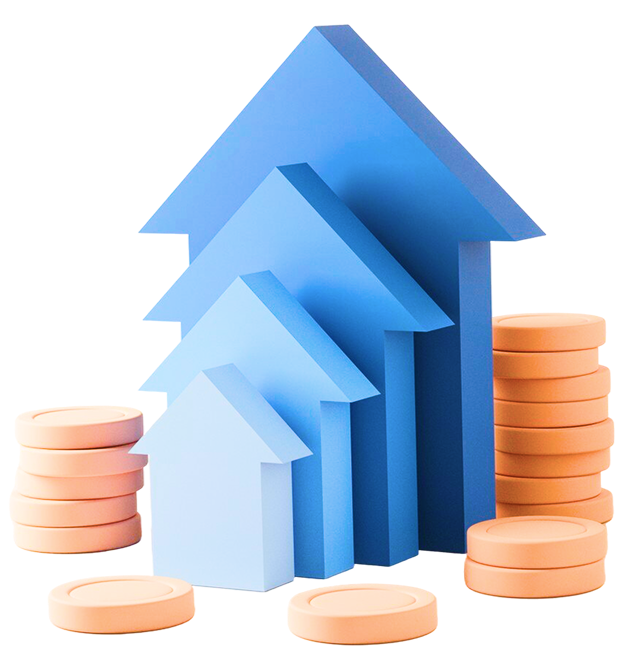
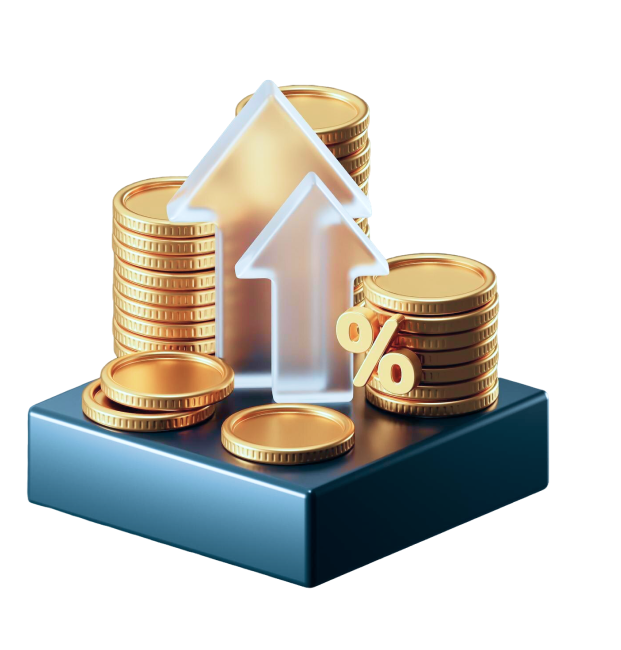
add project

diff --git a/index.html b/index.html
@@ -75,20 +75,20 @@
 
             <div class="hidden md:flex items-center justify-center w-full md:ml-40">
                 <nav class="flex items-center text-[0.875rem] gap-[1.0625rem]">
-                    <a href="#about-us" class="hover:opacity-80">О компании</a>
-                    <a href="#advantages" class="hover:opacity-80">Преимущества</a>
+                    <a href="#advantages" class="hover:opacity-80">Выгоды</a>
+                    <a href="#about-us" class="hover:opacity-80">О нас</a>
                     <a href="/" class="mx-[2.0625rem]">
                         <img src="/assets/images/logo.svg" alt="Финстар Капитал">
                     </a>
-                    <a href="#invests" class="hover:opacity-80">Инвестиции</a>
-                    <a href="#contacts" class="hover:opacity-80">Оставить заявку</a>
+                    <a href="#invests" class="hover:opacity-80">Фонды</a>
+                    <a href="#contacts" class="hover:opacity-80">Заявки</a>
                 </nav>
             </div>
 
             <a href="#invest"
-               class="hidden lg:block rounded-[0.5rem] bg-black text-white
+               class="hidden lg:block rounded-[0.5rem] bg-header-btn text-white
                     py-[0.5625rem] px-[1.1875rem] text-[1rem] font-medium">
-                Инвестировать
+                Скачать презентацию
             </a>
         </div>
     </div>
@@ -121,9 +121,9 @@
                  class="px-4 pb-[1.25rem] translate-y-4 opacity-0 transition-all duration-300 ease-out
                 motion-reduce:transition-none">
                 <a href="#invest"
-                   class="block w-full text-center rounded-[9999px] bg-black text-white
+                   class="block w-full text-center rounded-[9999px] bg-header-btn text-white
                 text-[1rem] py-[1.25rem] font-medium">
-                    Инвестировать
+                    Скачать презентацию
                 </a>
             </div>
         </div>
@@ -137,33 +137,33 @@
             <div class="md:grid md:grid-cols-2 md:gap-2 md:items-center">
                 <div class="text-center">
                     <h1 class="font-semibold leading-none text-[2.3125rem] md:text-[3.75rem]">
-                        Получайте от
+                        Создайте
                         <span class="font-semibold block text-[2.3125rem] md:text-[3.75rem] text-heading">
-                30% годовых
+                эффективный
               </span>
                     </h1>
 
                     <p class="mt-4 mb-4 md:mt-[0.6rem] md:mb-9 text-[1.125rem] md:text-[1.3125rem]">
-                        инвестируя в ЗПИФ <span class="block md:inline-block font-semibold">«Залоговые займы»</span>
+                        инвестиционный бюджет
                     </p>
 
-                    <p class="mb-6 md:mb-10 text-[0.8125rem] leading-5 md:text-[1rem] max-w-[30rem] mx-auto">
-                        Стабильный пассивный доход с ежемесячными выплатами по договору займа
+                    <p class="mb-6 md:mb-10 text-[0.8125rem] leading-5 md:text-[1rem] max-w-[24rem] mx-auto">
+                        минимизируя риски и гарантируя доходность от 25% годовых
                     </p>
 
                     <div class="md:hidden -ml-4 -mr-4">
-                        <img src="/assets/images/hero_mobile.png" alt="Монеты и рост графика"
+                        <img src="/assets/images/hero_bg.png" alt="Монеты и рост графика"
                              class="w-full h-auto select-none">
                     </div>
 
                     <a id="invest" href="#"
-                       class="mt-6 md:mt-0 inline-flex items-center justify-center rounded-[1.3rem] md:rounded-[1.9rem]
-                       bg-primary
+                       class="mt-6 md:mt-0 items-center justify-center rounded-[1.3rem] md:rounded-[1.9rem]
+                       bg-hero-btn
                        text-white
                       text-[1.3125rem] md:text-[1.38rem]
                       py-[1.25rem] px-[2.4375rem] md:py-[1.5rem] md:px-[1.875rem]
-                      hover:opacity-95 active:opacity-90 transition font-medium">
-                        Начать инвестировать
+                      hover:opacity-95 active:opacity-90 transition font-medium max-w-[20rem] mx-auto block">
+                        Узнать больше
                     </a>
 
                     <div class="mt-10 md:hidden rounded-[1.25rem] text-center bg-background-card px-4 py-5.5 flex flex-col justify-center items-center gap-3">
@@ -176,7 +176,7 @@
                 </div>
 
                 <div class="relative hidden md:block max-w-[87rem]">
-                    <img src="/assets/images/hero_bg.jpg" alt="Монеты и рост графика"
+                    <img src="/assets/images/hero_bg.png" alt="Монеты и рост графика"
                          class="max-w-full select-none">
 
                     <div class="flex items-start gap-2 rounded-[0.5rem] bg-white/95
@@ -193,65 +193,13 @@
         </div>
     </section>
 
-    <section id="advantages" class="my-[3.125rem] lg:my-[5.625rem] font-display relative">
-        <div class="container mx-auto px-4">
-            <h2 class="text-left md:text-center font-semibold leading-tight text-[1.375rem] md:text-[2rem] mx-auto max-w-[60rem] mb-[1.5625rem] md:mb-[2.5rem]">
-                ООО УК «Финстар Капитал» – профессиональное
-                управление инвестициями
-                <span class="text-primary">под любой запрос</span>
-            </h2>
-
-            <div class="grid grid-cols-1 md:grid-cols-3 gap-[1.5rem] md:gap-[1.125rem]">
-                <article class="relative rounded-[1.25rem] bg-gray-100
-                      px-[1.875rem] py-[1.875rem]   md:px-[1.25rem] md:py-[1.5625rem]">
-                    <div class="w-[3.45rem] h-[3.45rem] rounded-[0.5rem] bg-white flex items-center justify-center">
-                        <img src="/assets/icons/portfel.svg" alt="Иконка фонда" class="w-10 h-10">
-                    </div>
-
-                    <div class="pt-[2.5rem] md:pt-[5rem]">
-                        <div class="text-[1rem] md:text-[1.125rem] opacity-70">Формирование фонда</div>
-                        <div class="font-semibold text-[1.5625rem] md:text-[2.3125rem]">
-                            от 25 млн. руб.
-                        </div>
-                    </div>
-                </article>
-
-                <article class="relative rounded-[1.25rem] bg-gray-100
-                      px-[1.875rem] py-[1.875rem]   md:px-[1.25rem] md:py-[1.5625rem]">
-                    <div class="w-[3.45rem] h-[3.45rem] rounded-[0.5rem] bg-white flex items-center justify-center">
-                        <img src="/assets/icons/target.svg" alt="Иконка фонда" class="w-10 h-10">
-                    </div>
-                    <div class="pt-[2.5rem] md:pt-[5rem]">
-                        <div class="text-[1rem] md:text-[1.125rem] opacity-70">Международный опыт</div>
-                        <div class="mt-[0.25rem] font-semibold text-[1.5625rem] md:text-[2.3125rem]">
-                            Finstar Holding
-                        </div>
-                    </div>
-                </article>
-
-                <article class="relative rounded-[1.25rem] bg-gray-100
-                      px-[1.875rem] py-[1.875rem]   md:px-[1.25rem] md:py-[1.5625rem]">
-                    <div class="w-[3.45rem] h-[3.45rem] rounded-[0.5rem] bg-white flex items-center justify-center">
-                        <img src="/assets/icons/cash.svg" alt="Иконка фонда" class="w-10 h-10">
-                    </div>
-                    <div class="pt-[2.5rem] md:pt-[5rem]">
-                        <div class="text-[1rem] md:text-[1.125rem] opacity-70">Ресурсы</div>
-                        <div class="mt-[0.25rem] font-semibold text-[1.5625rem] md:text-[2.3125rem]">
-                            Finstar Group
-                        </div>
-                    </div>
-                </article>
-            </div>
-        </div>
-    </section>
-
     <section id="about-us" class="py-[3.125rem] lg:py-[5.625rem] font-display relative overflow-hidden">
         <div class="hidden md:block bg-glow bg-glow-advantages"></div>
 
         <div class="container mx-auto px-4">
             <h2 class="text-left md:text-center font-semibold leading-tight text-[1.375rem] md:text-[2rem] mb-[1.5625rem] md:mb-[2.5rem]">
                 Почему инвесторы выбирают ЗПИФ
-                <span class="text-primary">«Залоговые займы»</span>
+                <span class="text-[rgba(3, 151, 87, 1)]">«Залоговые займы»</span>
             </h2>
 
             <div class="mt-[1.5625rem] md:mt-[2.5rem] grid grid-cols-1 md:grid-cols-2 gap-5 md:gap-6">
@@ -286,7 +234,7 @@
                        class="inline-flex items-center justify-center rounded-[15px] font-medium text-white bg-primary
                   text-[0.9rem] md:text-[1rem]
                   py-[1rem] md:py-[1.2rem] px-[1rem] md:px-[2rem] hover:opacity-90 transition">
-                        Начать инвестировать
+                        Изучить детали
                     </a>
 
                     <img src="/assets/images/why_us_left_bg.png" alt="Диаграмма"
@@ -329,7 +277,7 @@
                        class="inline-flex items-center justify-center rounded-[15px] text-white font-medium bg-primary
                   text-[0.9rem] md:text-[1rem]
                   py-[1rem] md:py-[1.2rem] px-[1rem] md:px-[2rem] hover:opacity-90 transition">
-                        Начать инвестировать
+                        Изучить детали
                     </a>
 
                     <img src="/assets/images/why_us_right_bg.png" alt="Монета"
@@ -510,6 +458,58 @@
         </div>
     </section>
 
+    <section id="advantages" class="my-[3.125rem] lg:my-[5.625rem] font-display relative">
+        <div class="container mx-auto px-4">
+            <h2 class="text-left md:text-center font-semibold leading-tight text-[1.375rem] md:text-[2rem] mx-auto max-w-[60rem] mb-[1.5625rem] md:mb-[2.5rem]">
+                ООО УК «Финстар Капитал» – профессиональное
+                управление инвестициями
+                <span class="text-advantages-subheading">под любой запрос</span>
+            </h2>
+
+            <div class="grid grid-cols-1 md:grid-cols-3 gap-[1.5rem] md:gap-[1.125rem]">
+                <article class="relative rounded-[1.25rem] bg-cards-advantages
+                      px-[1.875rem] py-[1.875rem]   md:px-[1.25rem] md:py-[1.5625rem]">
+                    <div class="w-[3.45rem] h-[3.45rem] rounded-[0.5rem] bg-white flex items-center justify-center">
+                        <img src="/assets/icons/portfel.svg" alt="Иконка фонда" class="w-10 h-10">
+                    </div>
+
+                    <div class="pt-[2.5rem] md:pt-[5rem]">
+                        <div class="text-[1rem] md:text-[1.125rem] opacity-70">Формирование фонда</div>
+                        <div class="font-semibold text-[1.5625rem] md:text-[2.3125rem]">
+                            от 25 млн. руб.
+                        </div>
+                    </div>
+                </article>
+
+                <article class="relative rounded-[1.25rem] bg-cards-advantages
+                      px-[1.875rem] py-[1.875rem]   md:px-[1.25rem] md:py-[1.5625rem]">
+                    <div class="w-[3.45rem] h-[3.45rem] rounded-[0.5rem] bg-white flex items-center justify-center">
+                        <img src="/assets/icons/target.svg" alt="Иконка фонда" class="w-10 h-10">
+                    </div>
+                    <div class="pt-[2.5rem] md:pt-[5rem]">
+                        <div class="text-[1rem] md:text-[1.125rem] opacity-70">Международный опыт</div>
+                        <div class="mt-[0.25rem] font-semibold text-[1.5625rem] md:text-[2.3125rem]">
+                            Finstar Holding
+                        </div>
+                    </div>
+                </article>
+
+                <article class="relative rounded-[1.25rem] bg-cards-advantages
+                      px-[1.875rem] py-[1.875rem]   md:px-[1.25rem] md:py-[1.5625rem]">
+                    <div class="w-[3.45rem] h-[3.45rem] rounded-[0.5rem] bg-white flex items-center justify-center">
+                        <img src="/assets/icons/cash.svg" alt="Иконка фонда" class="w-10 h-10">
+                    </div>
+                    <div class="pt-[2.5rem] md:pt-[5rem]">
+                        <div class="text-[1rem] md:text-[1.125rem] opacity-70">Ресурсы</div>
+                        <div class="mt-[0.25rem] font-semibold text-[1.5625rem] md:text-[2.3125rem]">
+                            Finstar Group
+                        </div>
+                    </div>
+                </article>
+            </div>
+        </div>
+    </section>
+
     <section id="contacts" class="my-[3.125rem] lg:my-[5.625rem] font-display overflow-hidden relative">
         <div class="container mx-auto px-4">
             <div class="relative rounded-[1.57rem] bg-primary pb-20 md:pb-0">
@@ -523,21 +523,17 @@
 
                     <div class="px-5 pb-0 md:px-[4.25rem] py-[1.875rem] md:py-[2.5rem] text-white text-left md:text-center max-w-[38rem] md:-ml-[4rem]">
                         <h3 class="font-semibold leading-tight text-[1.25rem] md:text-[1.5rem]">
-                            Готовы начать инвестировать вместе с нами?
+                            Оцените преимущества вашего инвестиционного бюджета
                         </h3>
 
                         <p class="mt-[0.75rem] md:mt-[1.3rem] text-[0.875rem] md:text-[1rem] leading-relaxed opacity-90">
-                            Оставьте заявку, чтобы подробно ознакомиться с предложением (финансовый план, расчёт
-                            доходности,
-                            договор с условиями и гарантиями). Наш менеджер свяжется с вами в течение 15 минут, уточнит
-                            запрос
-                            и расскажет о предложении.
+                            Наши эксперты помогут структурировать ваш инвестиционный бюджет, минимизируя риски и повышая доходность. Узнайте, как лицензированное управление и профессиональная оценка активов открывают для вас возможности с прозрачной стратегией и защитой капитала.
                         </p>
 
                         <a href="#"
-                           class="mt-[1.9rem] md:mt-[2.25rem] inline-flex items-center justify-center rounded-[18px] bg-white text-black
-                    text-[1.15rem] md:text-[1rem] px-4 md:px-[1.4rem] py-[1.25rem] transition hover:opacity-90 font-medium">
-                            Начать инвестировать
+                           class="mt-[1.9rem] md:mt-[2.25rem] block mx-auto items-center justify-center rounded-[18px] bg-white text-black
+                    text-[1.15rem] md:text-[1rem] px-4 md:px-[1.4rem] py-[1.25rem] transition hover:opacity-90 font-medium max-w-[20rem]">
+                            Начать путь
                         </a>
                     </div>
                 </div>

diff --git a/src/style.css b/src/style.css
@@ -10,22 +10,25 @@
 @theme {
     --font-display: "Montserrat", sans-serif;
 
-    --color-primary: rgba(0, 114, 208, 1);
-    --color-heading: rgba(0, 168, 116, 1);
+    --color-primary: rgba(0, 91, 104, 1);
+    --color-header-btn: rgba(9, 56, 44, 1);
+    --color-heading: rgba(3, 151, 87, 1);
+    --color-hero-btn: rgba(3, 151, 87, 1);
     --color-background-card: rgba(239, 249, 255, 1);
-    --color-cards-advantages: rgba(243, 243, 243, 1);
-    --color-why-us-left: rgba(228, 250, 255, 1);
-    --color-why-us-right: rgba(239, 255, 252, 1);
-    --color-card-one: rgba(249, 249, 249, 1);
+    --color-cards-advantages: rgba(236, 246, 231, 1);
+    --color-advantages-subheading: rgba(3, 151, 87, 1);
+    --color-why-us-left: rgba(242, 246, 231, 1);
+    --color-why-us-right: rgba(238, 245, 255, 1);
     --color-card-two-special-text: rgba(127, 17, 0, 1);
     --color-card-three-special-text: rgba(0, 127, 88, 1);
     --color-card-four-special-text: rgba(202, 131, 8, 1);
-    --color-card-two: rgba(255, 245, 238, 1);
-    --color-card-three: rgba(239, 252, 243, 1);
-    --color-card-four: rgba(255, 250, 210, 1);
-    --color-contact-form: rgba(0, 114, 208, 1);
-    --color-contact-form-shape: rgba(0, 88, 161, 1);
-    --color-footer: rgba(1, 21, 39, 1);
+    --color-card-one: rgba(249, 249, 249, 1);
+    --color-card-two: rgba(249, 249, 249, 1);
+    --color-card-three: rgba(249, 249, 249, 1);
+    --color-card-four: rgba(249, 249, 249, 1);
+    --color-contact-form: rgba(38, 120, 152, 1);
+    --color-contact-form-shape: rgba(3, 82, 113, 1);
+    --color-footer: rgba(42, 51, 63, 1);
 }
 
 @layer utilities {
@@ -41,7 +44,7 @@
     .bg-glow-hero {
         top: -90%;
         left: -25%;
-        background: radial-gradient(50% 50% at 50% 50%, rgba(179, 239, 236, 0.7) 0%, rgba(179, 239, 236, 0) 100%);
+        background: radial-gradient(50% 50% at 50% 50%, rgba(179, 220, 239, 0.7) 0%, rgba(179, 220, 239, 0) 100%);
     }
 
     .bg-glow-advantages {
@@ -55,7 +58,7 @@
     .bg-glow-invests {
         top: -20%;
         left: -13%;
-        background: radial-gradient(50% 50% at 50% 50%, rgba(157, 211, 255, 0.4) 0%, rgba(157, 211, 255, 0) 100%);
+        background: radial-gradient(50% 50% at 50% 50%, rgba(255, 234, 157, 0.4) 0%, rgba(255, 234, 157, 0) 100%);
     }
 
     .section-spacing {
